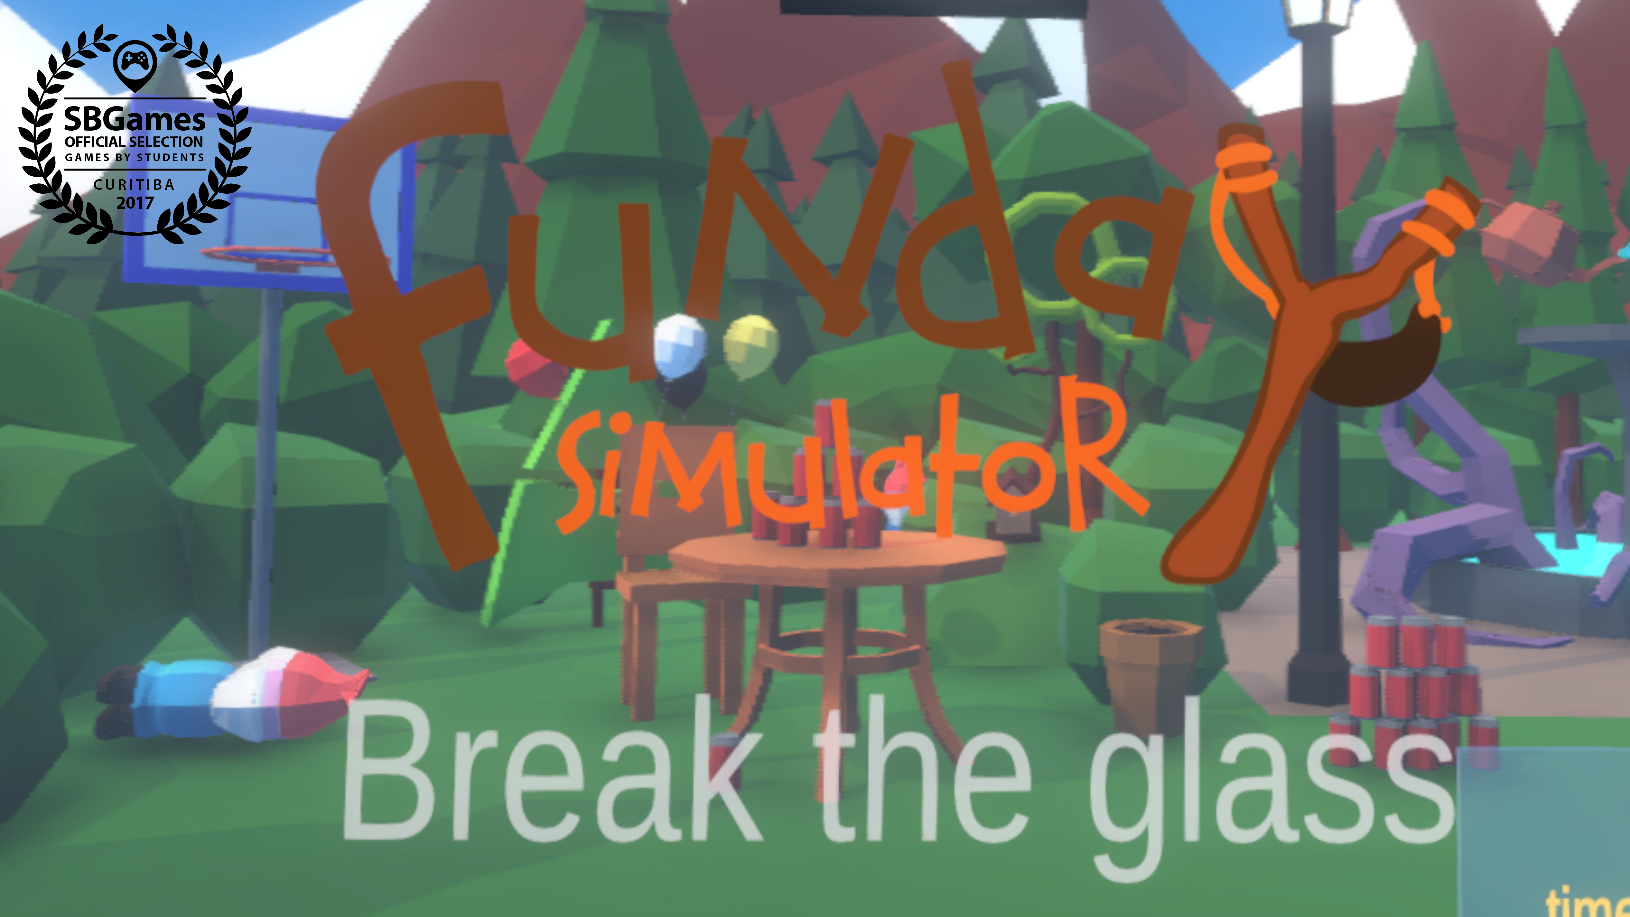
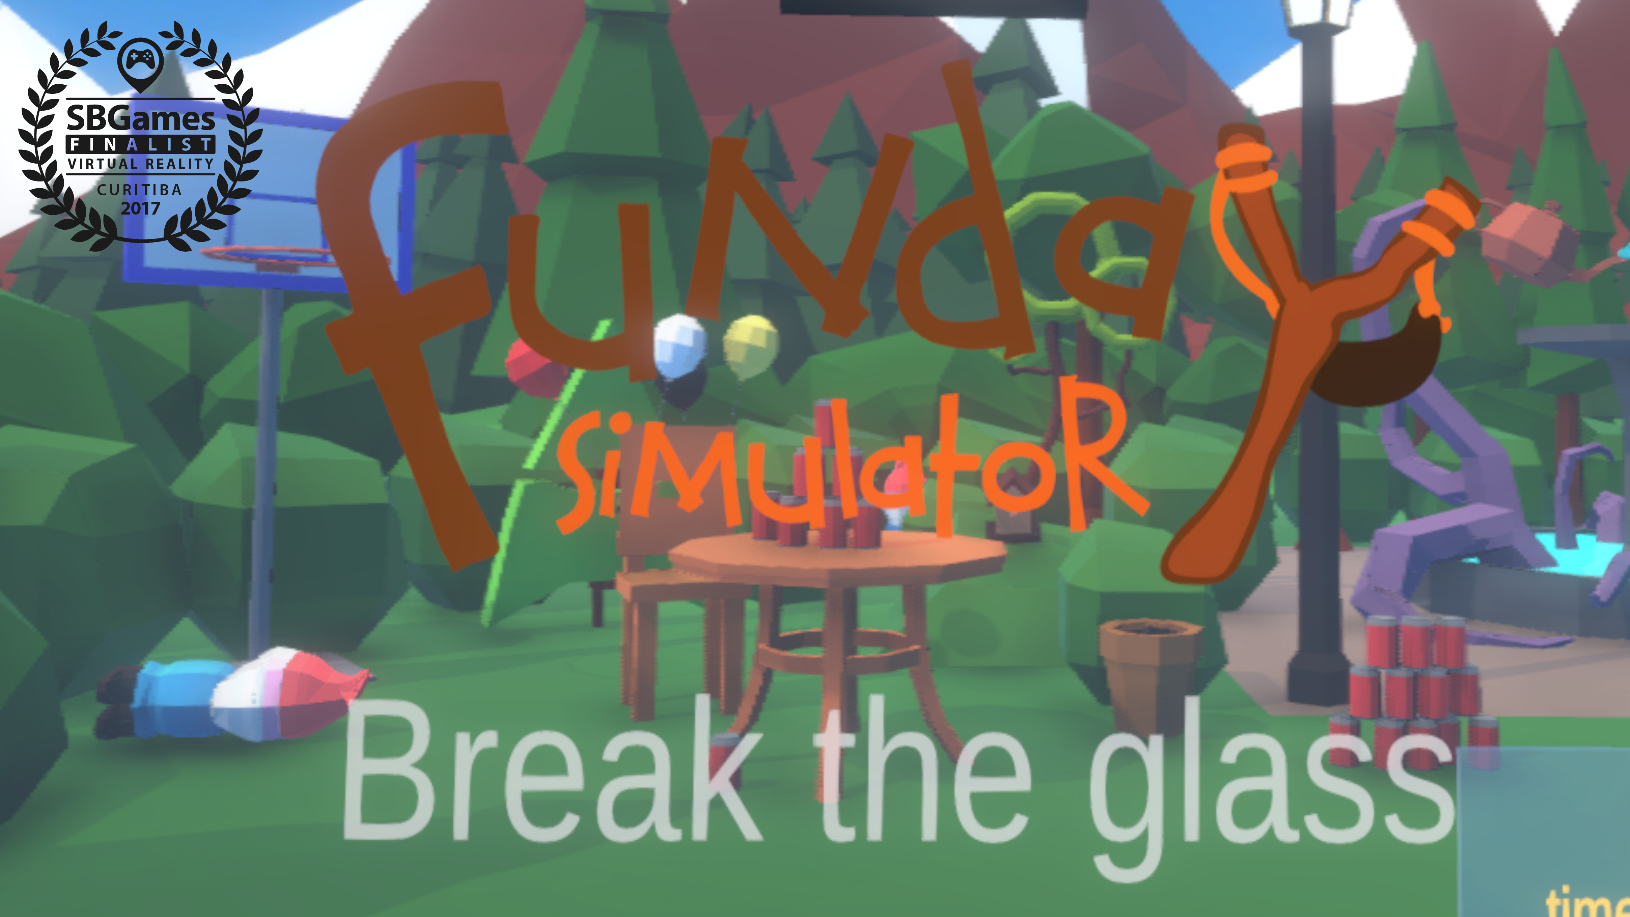
Funda is now a finalist on SBGames. Updating description and image

Changed region(s): [[0.0, 0.0305, 0.184, 0.2748]]

diff --git a/data/projects.js b/data/projects.js
@@ -12,11 +12,11 @@ TopProjects = [];
 
 // Stared Projects
 
+TopProjects.push(new project("Funda Simulator", "2017", "img/FundaSimulator.png", "https://atomicrocket.itch.io/funda-simulator", "Feel the experience of shooting with a slingshot in VR. Best VR Game finalist on SBGames 2017.", ["VR", "Unity", "Game Design", "C#"]));
+
 TopProjects.push(new project("Despeos", "WIP", "img/despeos_.png", "https://lawendt.itch.io/despeos", "Puzzle-plataform where you can only move by using a hook.", ["Unity", "Game Design", "C#"]));
 
 TopProjects.push(new project("Party Hats", "WIP", "img/partyhats_.png", "https://twinravens.itch.io/party-hats", "Local multiplayer arcade where players fight each other to see which hat is the coolest.", ["Unity", "Game Design", "C#"]));
-
-TopProjects.push(new project("Funda Simulator", "2017", "img/FundaSimulator.png", "https://atomicrocket.itch.io/funda-simulator", "Feel the experience of shooting with a slingshot in VR.", ["VR", "Unity", "Game Design", "C#"]));
 
 TopProjects.push(new project("2 Roll", "2015", "img/2Roll_.jpg", "https://lawendt.itch.io/2-roll", "2 Roll is about two separate souls faded to pass through doors wich are only opened by their eternal partner.", ["Unity", "Game Design", "C#", "Jam"]));
 
